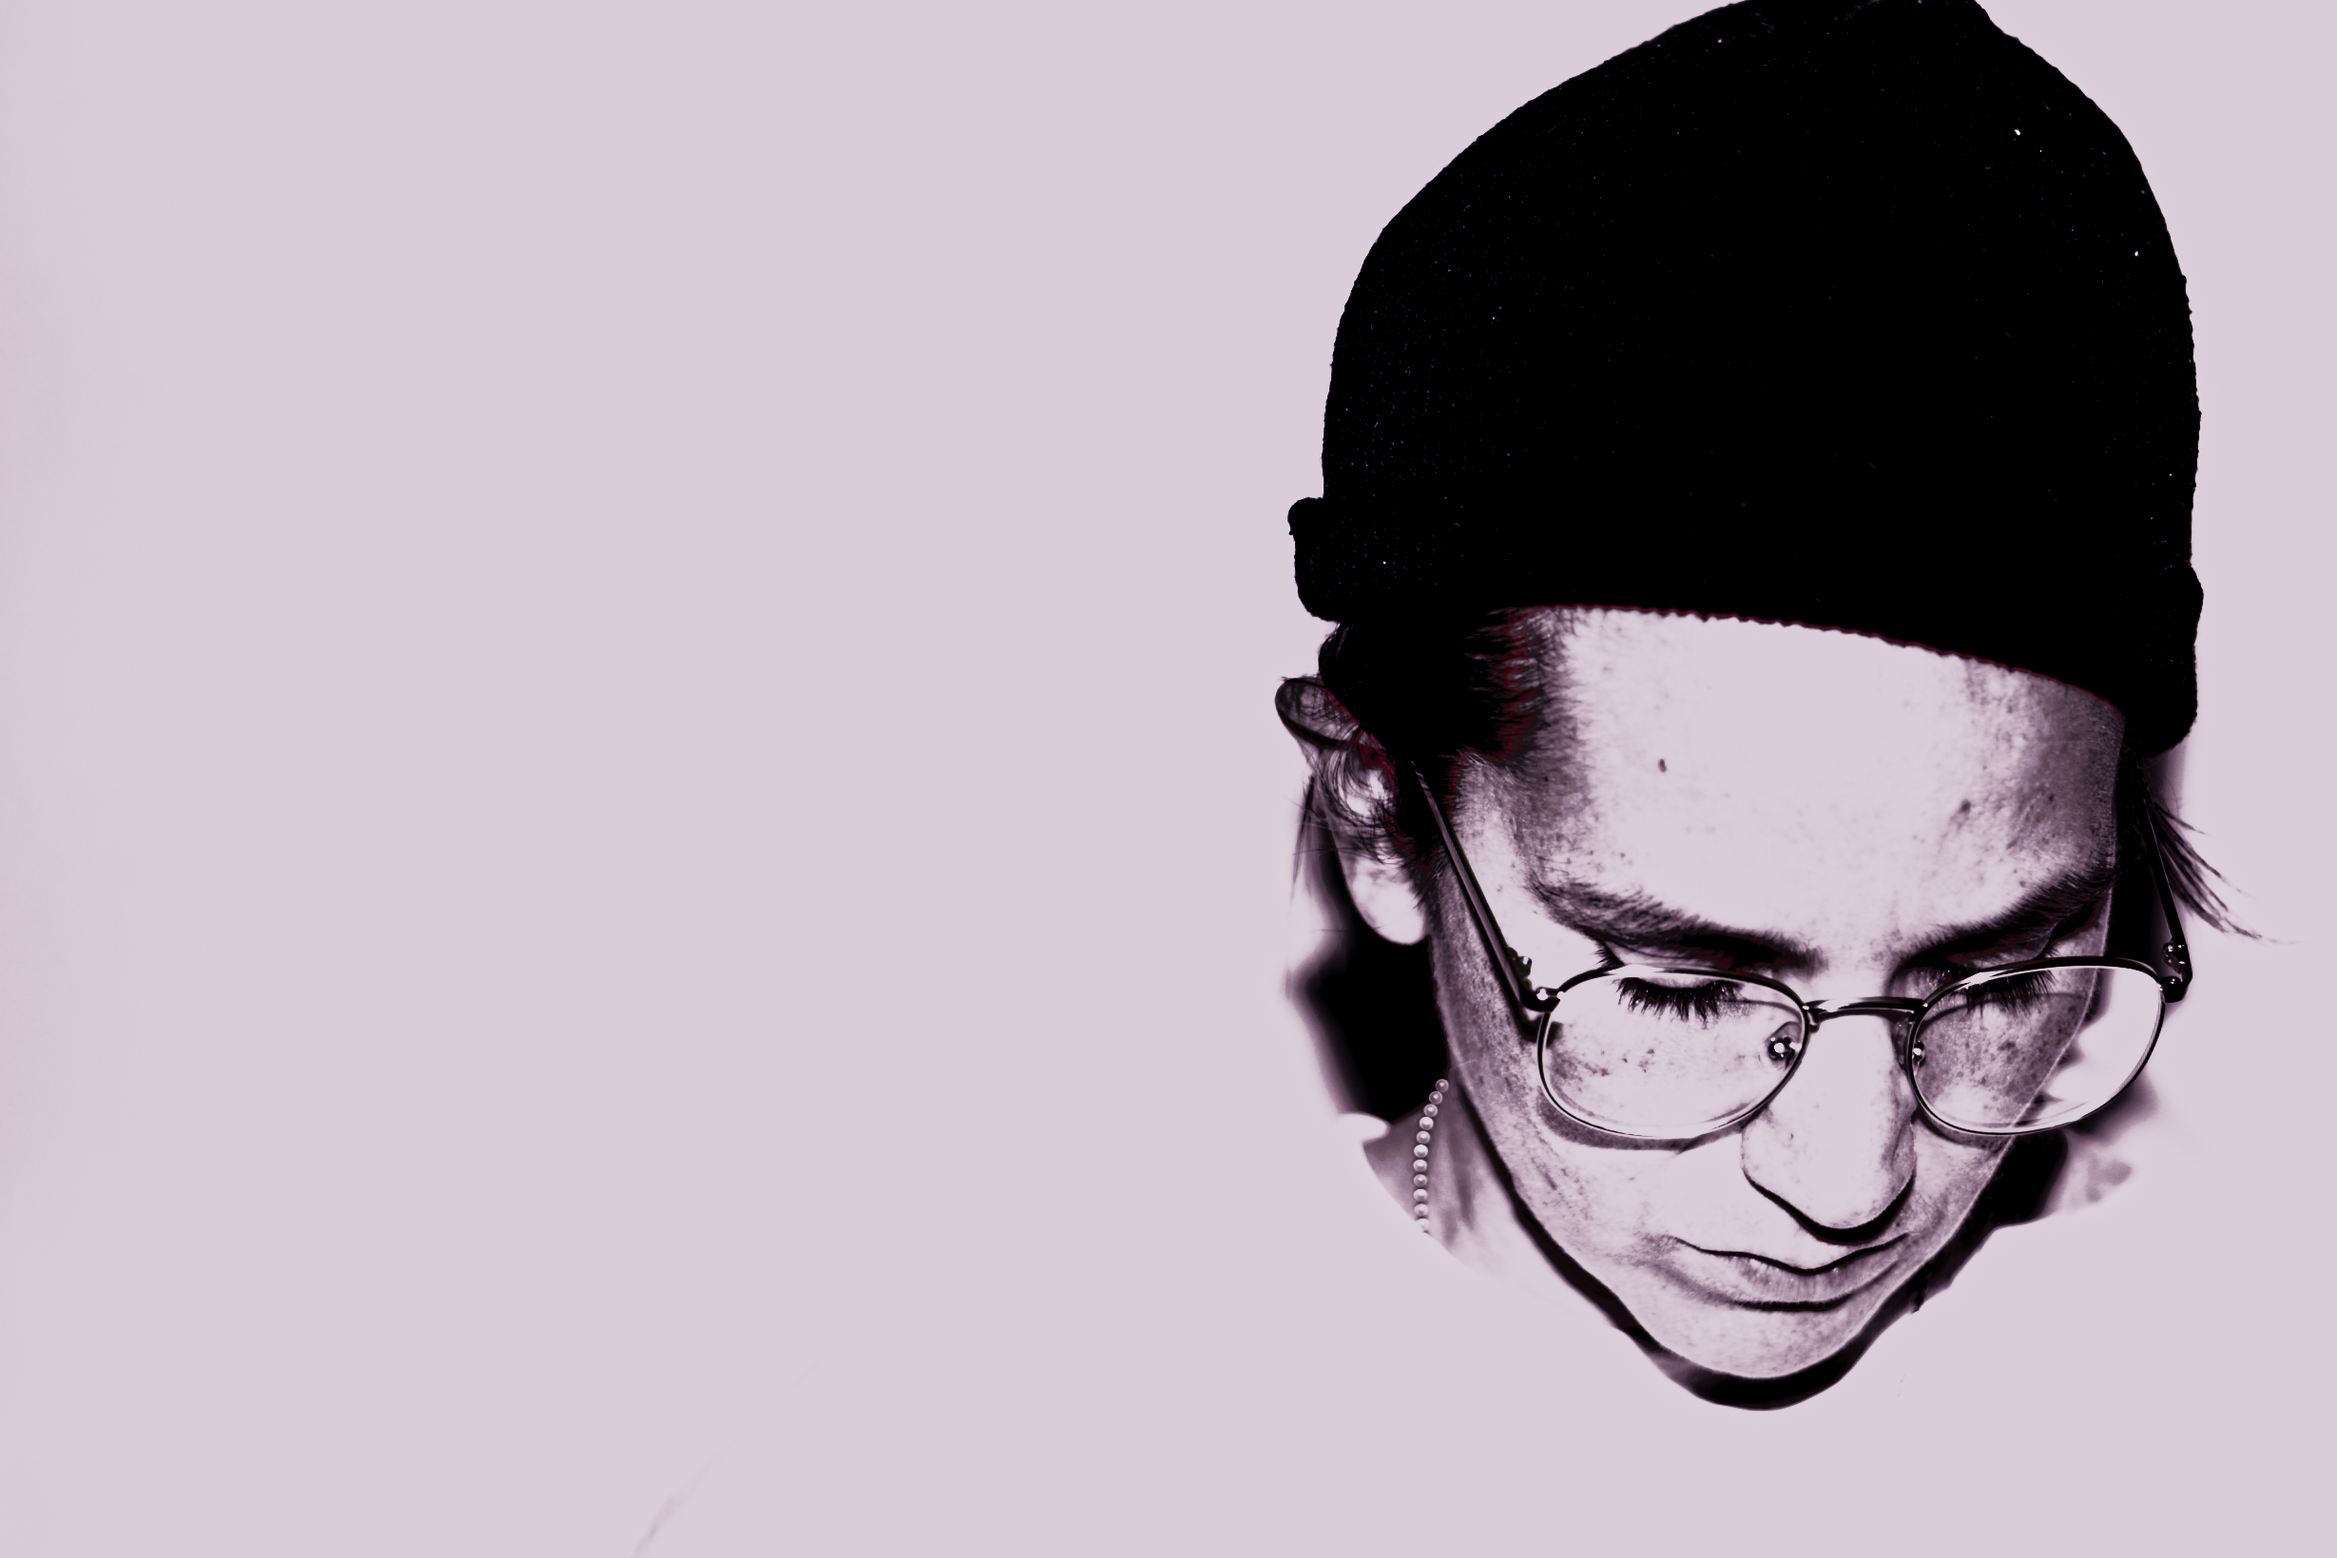
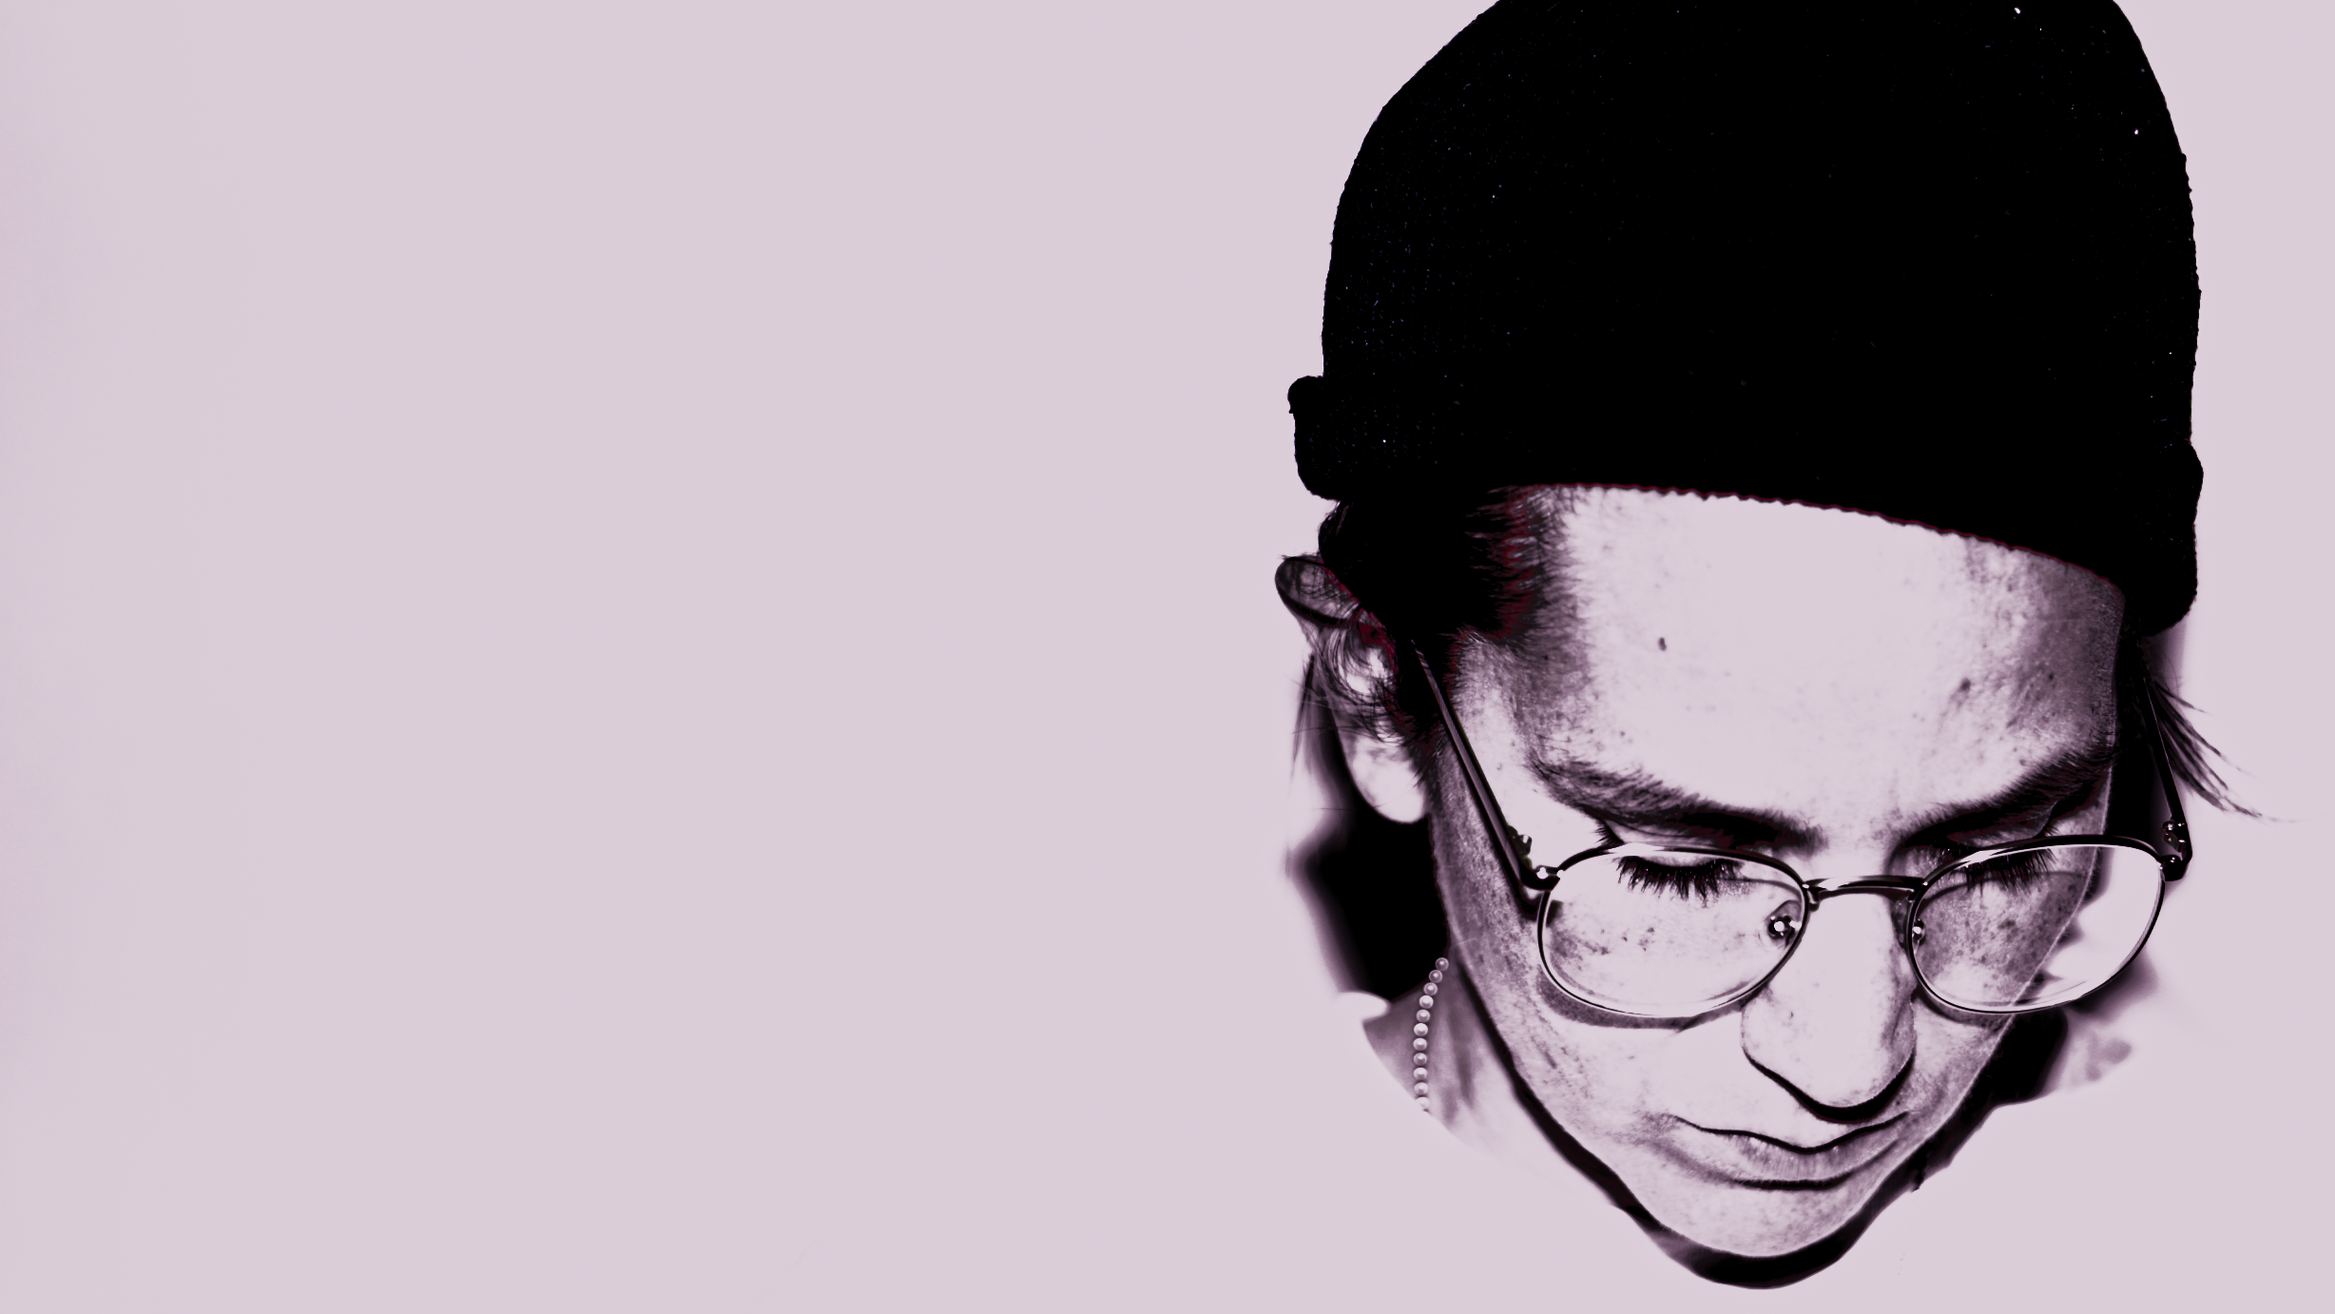
Applied bkg image and links to conatct page

diff --git a/contact.html b/contact.html
@@ -58,13 +58,51 @@
       </div>
     </div>
   </nav>
-  <div class="container-fluid">
-    <body class="contact-page-body">
 
+  <body class="contact-page-body">
+    <div class="container contact-container">
+      <div class="contact">
+        <h1 class="contact-title mt-5">Get In Touch With MTB!</h1>
 
-
-
-
-    </body>
-  </div>
+        <p>
+          <i class="fas fa-envelope-open-text"> </i>
+          <a
+            href="mailto:madametheband@gmail.com"
+            class="contact-link"
+            title="Email Liv"
+          >
+             madametheband@gmail.com
+          </a>
+        </p>
+        <p>
+          <i class="fab fa-twitter social-media-links"> </i>
+          <a class="contact-link" href="https://twitter.com/Madametheband"
+            > @madametheband</a
+          >
+        </p>
+        <p>
+          <a
+            class="contact-link"
+            href="https://www.instagram.com/madamethebandofficial/"
+            ><i class="fab fa-instagram social-media-links">  </i
+            > @madamethebandofficial</a
+          >
+        </p>
+        <h5>
+          For More Check out Madame The Band's
+          <a class="contact-link" href="https://linktr.ee/madametheband"
+            >Linktree</a
+          >
+        </h5>
+        <div class="donate">
+          <h2>Donate!</h2>
+          <p>
+            If you'd like to donate crypto to Madame The Band, please send
+            donations to:
+          </p>
+          <p>madametheband.eth</p>
+        </div>
+      </div>
+    </div>
+  </body>
 </html>

diff --git a/index.html b/index.html
@@ -112,16 +112,25 @@
       <div class="container mt-5 social-media">
         <div class="row">
           <div class="col-md-3">
-            <a href=""><i class="fab fa-twitter social-media-links"></i></a>
+            <a href="https://twitter.com/Madametheband"
+              ><i class="fab fa-twitter social-media-links"></i
+            ></a>
           </div>
           <div class="col-md-3">
-            <a href=""><i class="fab fa-spotify social-media-links"></i></a>
+            <a
+              href="https://open.spotify.com/artist/4Nu7fGM3KcopYslxAsurKK?si=dVbDU2iIRcuDQxWy2vNhKw&nd=1"
+              ><i class="fab fa-spotify social-media-links"></i
+            ></a>
           </div>
           <div class="col-md-3">
-            <a href=""><i class="fab fa-youtube social-media-links"></i></a>
+            <a href="https://www.youtube.com/channel/UCXNiKf76Y3-EPTvBC4LTpbw"
+              ><i class="fab fa-youtube social-media-links"></i
+            ></a>
           </div>
           <div class="col-md-3">
-            <a href=""><i class="fab fa-instagram social-media-links"></i></a>
+            <a href="https://www.instagram.com/madamethebandofficial/"
+              ><i class="fab fa-instagram social-media-links"></i
+            ></a>
           </div>
         </div>
       </div>

diff --git a/portfolio.css b/portfolio.css
@@ -7,9 +7,9 @@
   .picture-descriptions {
     display: none;
   }
+
   .headlines {
     text-align: center;
-    padding-top: 600px;
   }
 
   .headlines a {
@@ -20,7 +20,13 @@
     text-align: center;
     margin-top: 40px;
   }
+  .contact-container {
+    text-align: center;
+    color: gray;
+    margin-top: 30px;
+  }
 }
+
 html {
   min-height: 100%;
 }
@@ -157,5 +163,18 @@ html {
   background-image: url("images/black-white-pic-2.png");
   background-position: center;
   background-repeat: no-repeat;
-  background-size:85rem;
+  background-size: 85rem;
+}
+
+.contact-container {
+  font-family: var(--main-font-family);
+  padding: 20px;
+}
+
+.contact-link {
+  text-decoration: none;
+  color: blueviolet;
+}
+.donate{
+  margin-top: 20px;
 }
